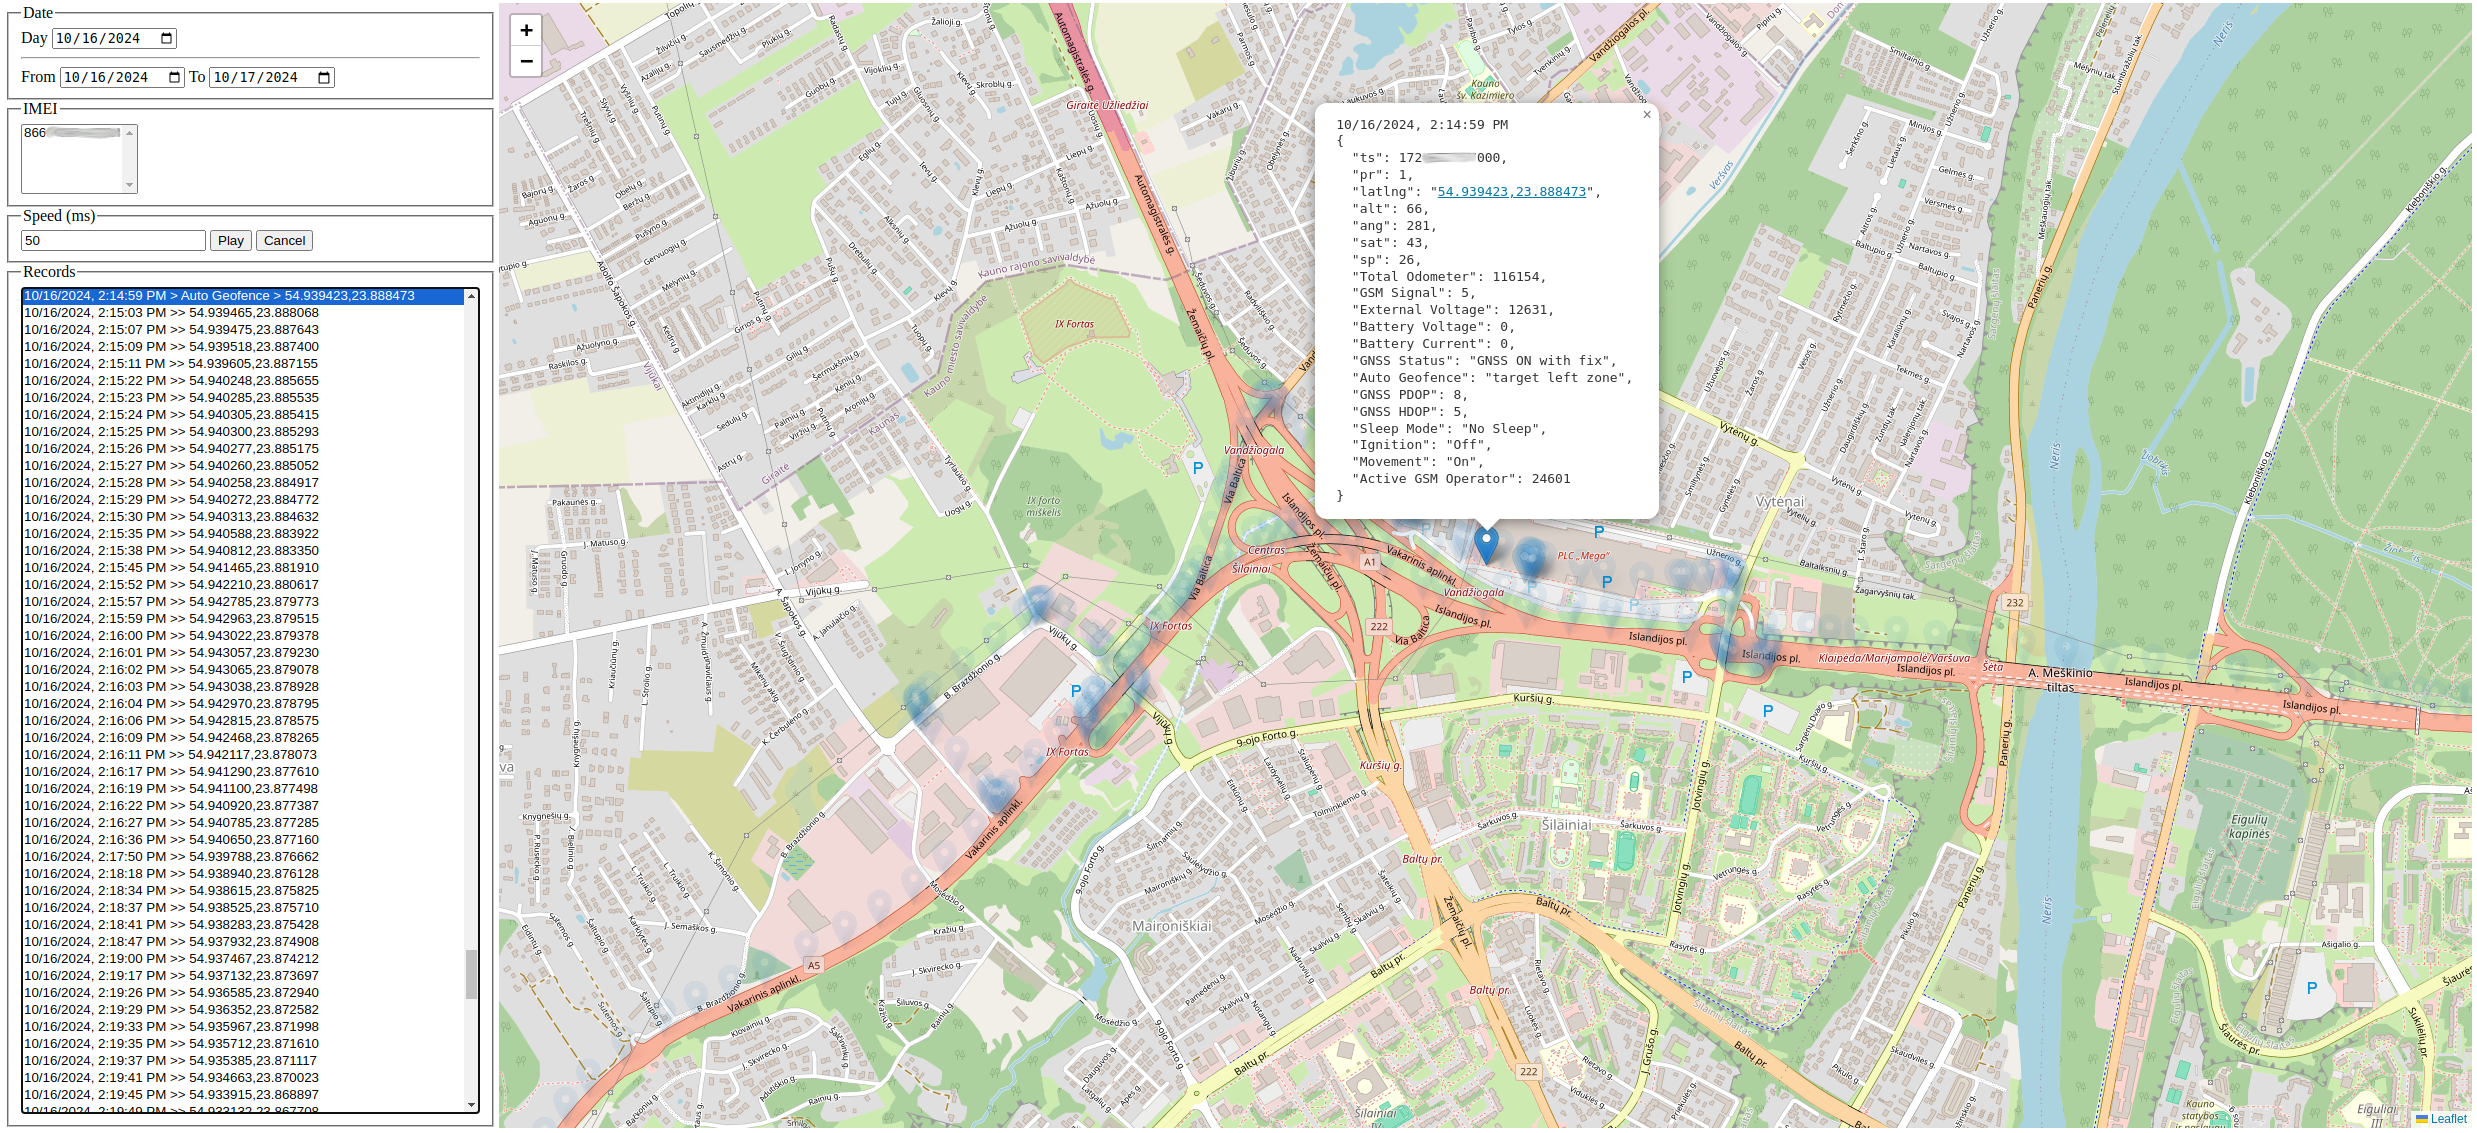
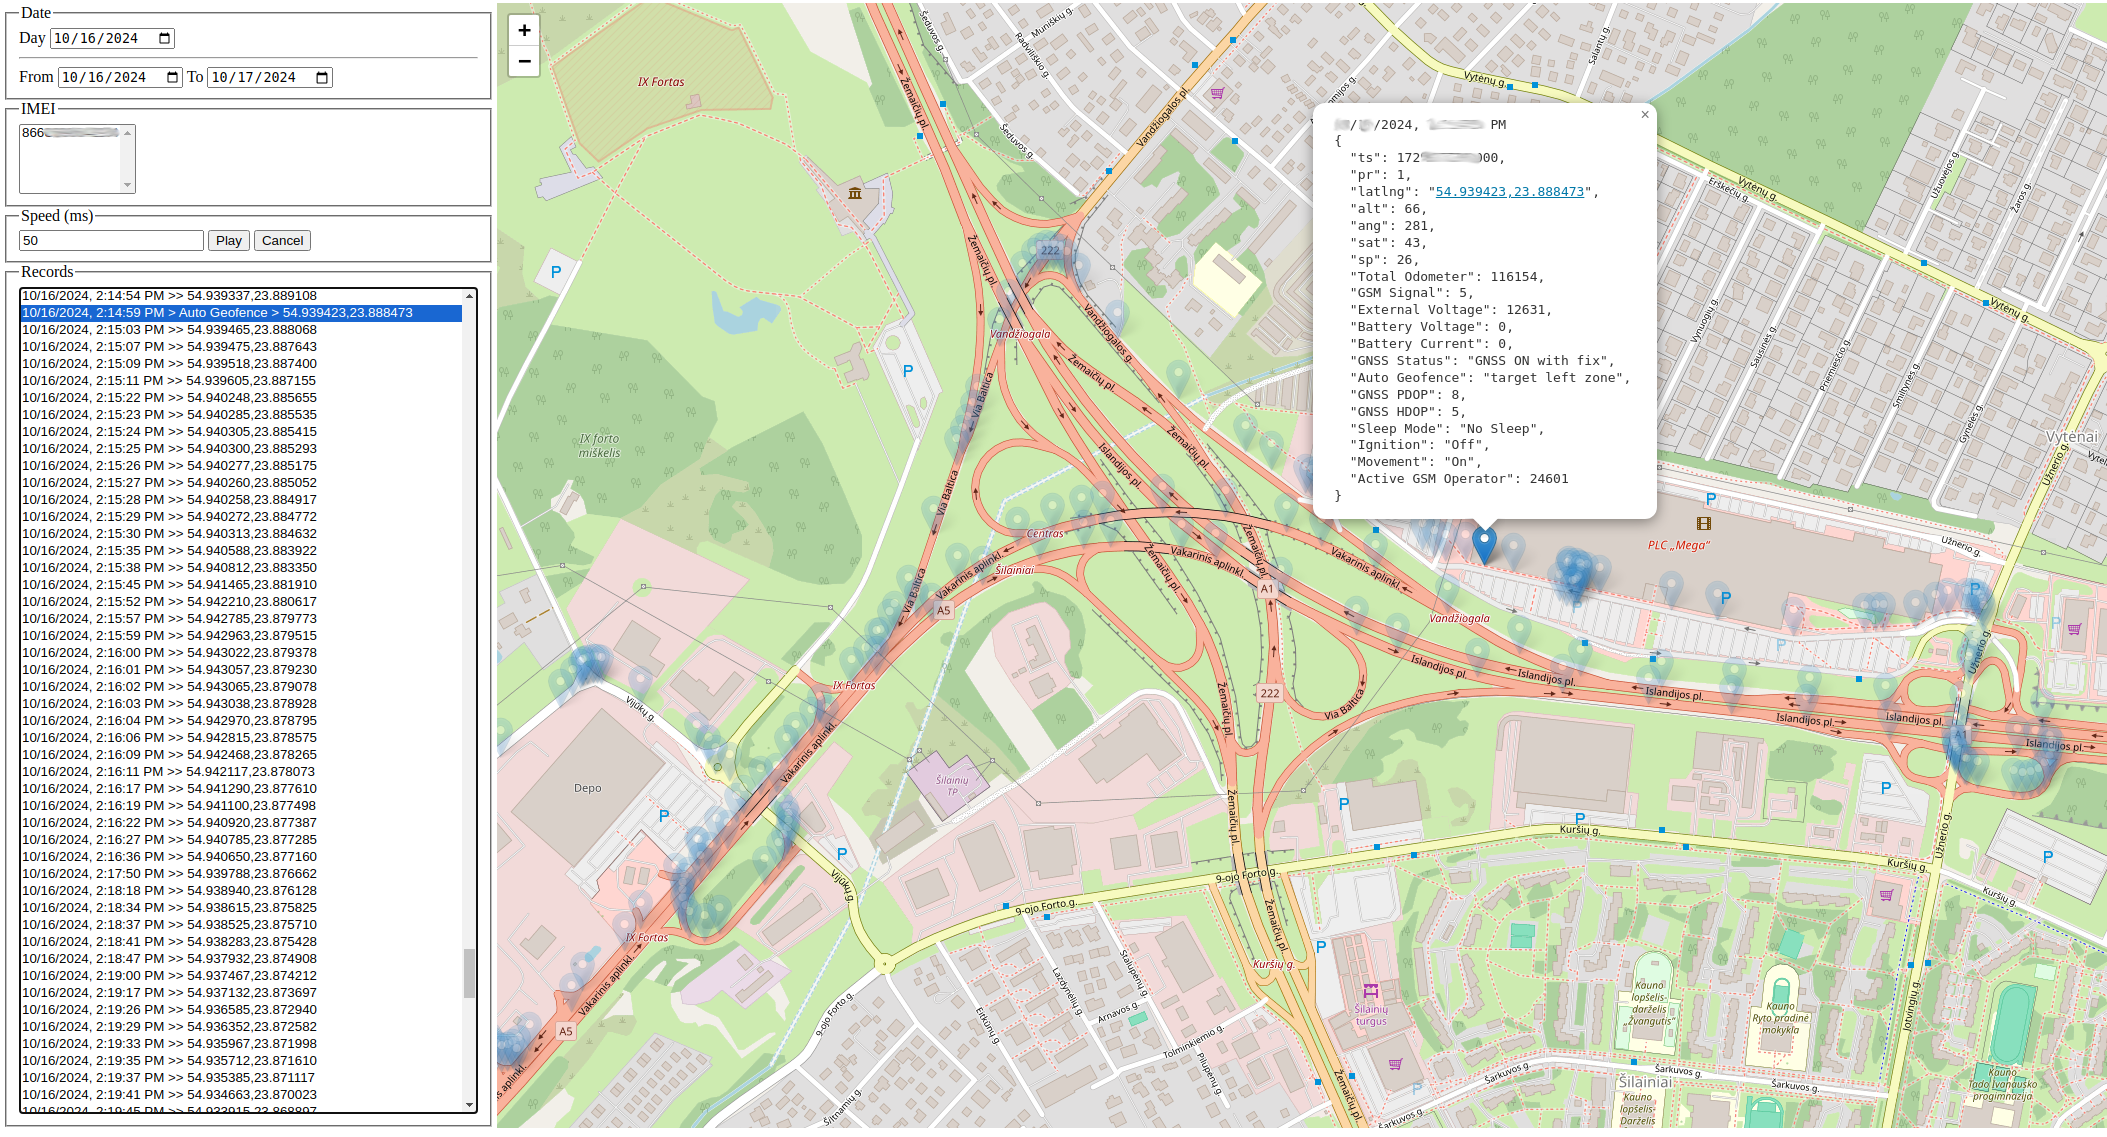
refactoring and fixes

diff --git a/public/main.js b/public/main.js
@@ -51,6 +51,17 @@
     const MinOpacity = 0.2
     const URLParams = new URLSearchParams(window.location.hash.slice(1))
 
+    const sleep = ms => {
+        let t
+        const cancel = _ => {
+            clearTimeout(t)
+        }
+        const p = new Promise(resolve => {
+            t = setTimeout(resolve, ms)
+        })
+        return [ p, cancel ]
+    }
+
     const makeDate = s => {
         const d = s ? new Date(s) : new Date()
         d.setHours(0, 0, 0, 0)
@@ -92,8 +103,7 @@
                 return
             }
             const marker = L.marker(data.latlng.split(","), {opacity: MinOpacity})
-            // const jsonItems = JSON.stringify(prettifyData(record.payload.state.reported), null, 2)
-            marker.addTo(map)  //.bindPopup(`<pre>${record.created_at}\n${jsonItems}</pre>`)
+            marker.addTo(map)
             marker._imei = record.imei
             marker._recordId = record.id.toString()
             marker.openRecordPopup = r => {
@@ -101,6 +111,9 @@
                 const jsonData = JSON.stringify(prettifyData(r.payload.state.reported), null, 2)
                 marker.bindPopup(`<pre>${r.created_at}\n${jsonData}</pre>`)
                 marker.openPopup()
+                URLParams.delete("record")
+                URLParams.append("record", r.id)
+                window.location.hash = URLParams.toString()
             }
             marker.on("click", _ => {
                 marker.openRecordPopup(record)
@@ -111,9 +124,6 @@
             })
             marker.on("popupopen", _ => {
                 marker.setOpacity(1)
-                URLParams.delete("record")
-                URLParams.append("record", marker._recordId)
-                window.location.hash = URLParams.toString()
             })
             marker.on("popupclose", () => {
                 marker.setOpacity(MinOpacity)
@@ -134,50 +144,48 @@
     }
 
     const [ playAnimation, cancelAnimation ] = (_ => {
-        const timers = []
+        const cancels = []
         let isCanceled = false
 
-        const cancel = () => {
+        const cancelAll = () => {
             isCanceled = true
-            timers.forEach(t => {
-                clearTimeout(t)
+            cancels.forEach(cancel => {
+                cancel()
             })
-            timers.splice(0, timers.length)
+            cancels.splice(0, cancels.length)
             isCanceled = false
         }
 
         const play = _ => {
-            cancel()
+            cancelAll()
             const speed = parseInt($("#speed").val())
-            Object.values(markers).forEach((marker, i, markers) => {
-                ((i) => {
+            Object.values(markers).forEach(async (marker, i, markers) => {
+                await (async (i) => {
                     if (isCanceled) {
                         return
                     }
                     marker.setOpacity(MinOpacity)
-                    timers.push(setTimeout(() => {
-                        if (isCanceled) {
-                            return
-                        }
-                        marker.setOpacity(1.0)
-                        markers[i-1] && markers[i-1].setOpacity(0.75)
-                        markers[i-2] && markers[i-2].setOpacity(0.5)
-                        markers[i-3] && markers[i-3].setOpacity(0.25)
-                        markers[i-4] && markers[i-4].setOpacity(MinOpacity)
-                        map.setView(marker.getLatLng())
-                        $records.val(marker._recordId)
-                        setTimeout(() => {
-                            $records.scrollTop(i * 17)
-                        }, 0)
-                        if (marker === markers[-1]) {
-                            timers.splice(0, timers.length)
-                        }
-                    }, 500 + i * speed))
+                    const [p, cancel] = sleep(i * speed)
+                    cancels.push(cancel)
+                    await p
+                    marker.setOpacity(1.0)
+                    markers[i-1] && markers[i-1].setOpacity(0.75)
+                    markers[i-2] && markers[i-2].setOpacity(0.5)
+                    markers[i-3] && markers[i-3].setOpacity(0.25)
+                    markers[i-4] && markers[i-4].setOpacity(MinOpacity)
+                    map.setView(marker.getLatLng())
+                    $records.val(marker._recordId)
+                    setTimeout(() => {
+                        $records.scrollTop(i * 17)
+                    }, 0)
+                    if (marker === markers[-1]) {
+                        cancels.splice(0, cancels.length)
+                    }
                 })(i)
             })
         }
 
-        return [ play, cancel ]
+        return [ play, cancelAll ]
     })()
 
     $day.on("change", async _ => {
